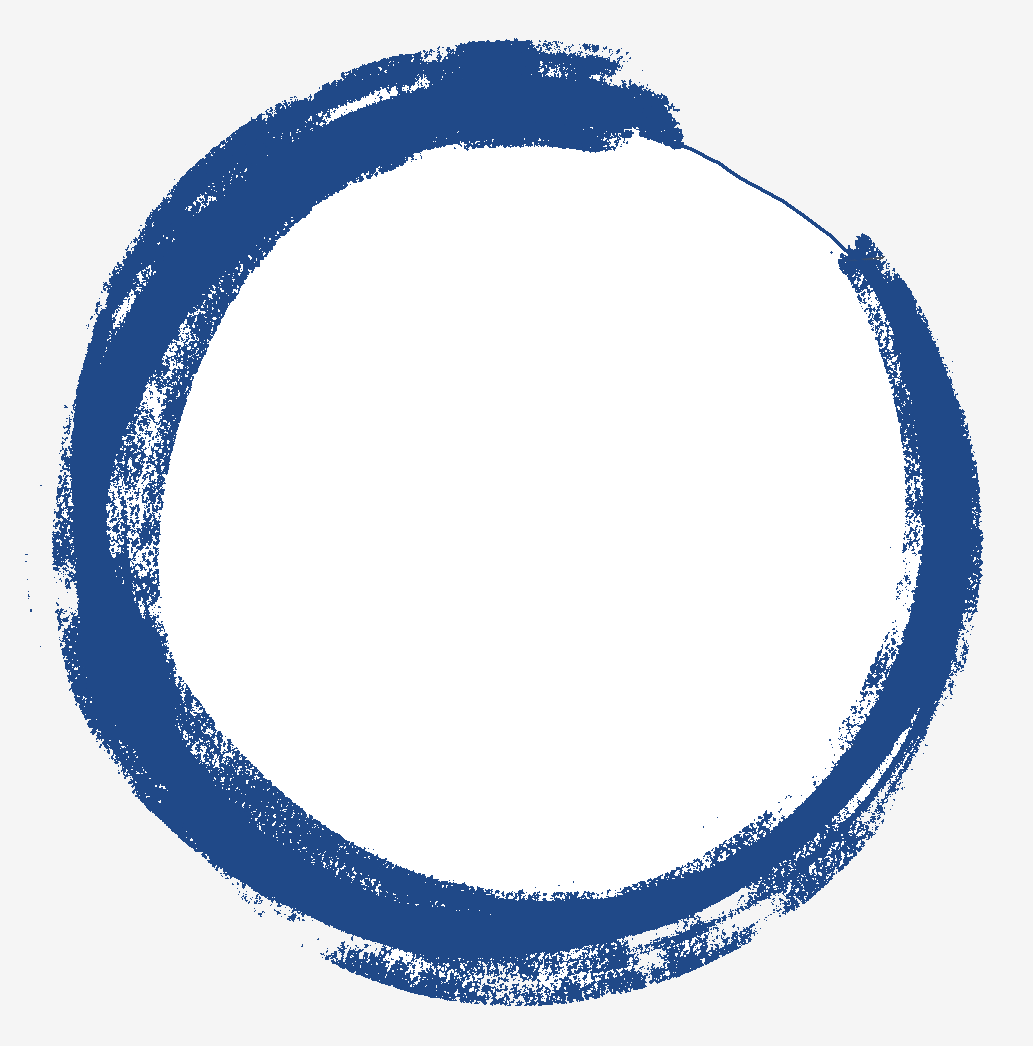
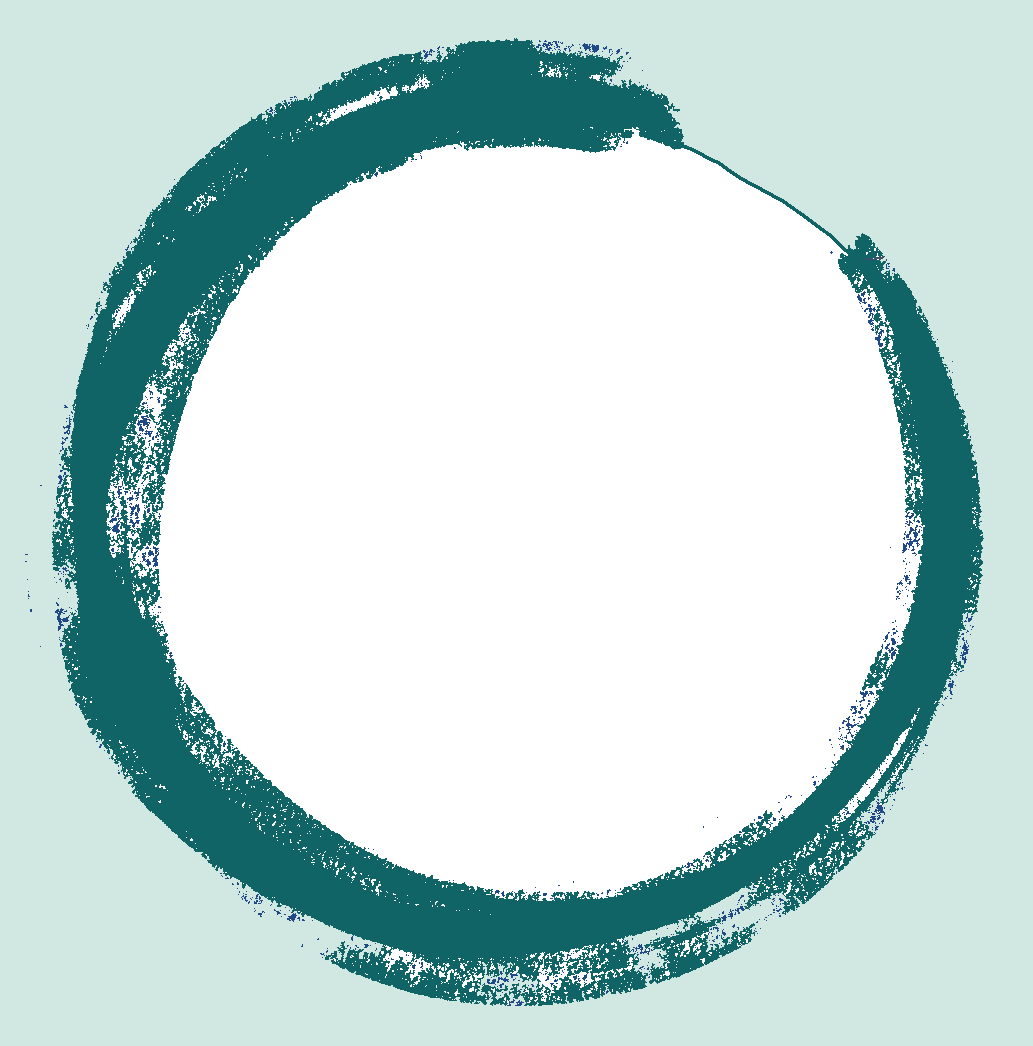
based on feedback

diff --git a/src/components/project-viewer/projects.tsx b/src/components/project-viewer/projects.tsx
@@ -33,7 +33,7 @@ const projects: Array<Project> = [
         id: 1,
         githubPath: 'https://github.com/kainan54/Mod3-VideoGame-Project',
         descrip:
-            'Flappy Demon is a loot-based web game where players are able to collect items/power-ups by defeating enemies or by purchasing them from the item shop. Users are ranked based on the amount of currency gained from selling items.',
+            'Flappy Demon is a loot-based web game where players collect items/power-ups by defeating enemies or by purchasing them from the item shop. Users are ranked based on the amount of currency gained from selling items.',
         features: [
             'Used Phaser3/Vanilla-JS for frontend and Rails API/Ruby for backend',
             'Meshed dom elements to respond to Phaser3 game logic',
@@ -53,7 +53,7 @@ const projects: Array<Project> = [
         id: 2,
         githubPath: 'https://github.com/kainan54/Mod4-project-geoTunes',
         descrip:
-            'Geotunes is a web application designed to allow users to create and share custom Google Maps routes that are linked to Spotify playlists.',
+            'Geotunes is a web application designed to allow users to create and share custom Google Maps routes that are linked to Spotify playlists',
         features: [
             'Integrated Google Maps to enable users to make custom routes on a shared map',
             'Applied Spotify React Components to enable users to attach public playlists to custom routes',
@@ -78,7 +78,7 @@ const projects: Array<Project> = [
         features: [
             'Utilized JSON Web Tokens and Bcrypt Gem for user authorization from frontend to backend',
             'Enabled users to interact through, photo uploads, likes, and following each other using rails models',
-            'Leveraged Three.js library to make a 3D viewer that users could apply to uploaded images',
+            'Applied Three.js Library to make a 3D viewer that users could apply to uploaded images',
             'Incorporated AR.js to make a view layer where users can view their images with a hiro marker and webcam',
         ],
         icons: [

diff --git a/src/components/navbar/NavBar.scss b/src/components/navbar/NavBar.scss
@@ -1,19 +1,20 @@
 .nav-bar {
     height: 4.4rem;
     width: 20rem;
-    background-image: linear-gradient(to right bottom, rgb(22, 20, 20), rgb(19, 17, 53));
+    background-color: #181818;
+    // background-image: linear-gradient(to right, #116466, rgba(4, 89, 110, 0.363));
     position: absolute;
     z-index: 6;
-    top: 0rem;
-    border-radius: 0.5rem;
+    top: 1rem;
+    left: 1rem;
     display: flex;
     justify-content: space-between;
     align-items: center;
     animation-name: moveInLeft;
     animation-duration: 2s;
+    border-radius: 0.7rem;
 
     .nav-icon {
-        background-color: rgb(8, 8, 105);
         height: 100%;
         width: 25%;
         display: flex;
@@ -26,7 +27,7 @@
         }
 
         .nav-line {
-            background-color: white;
+            background-color: #d1e8e2;
             height: 0.15rem;
             width: 1.8rem;
             transition-duration: 1s;
@@ -44,18 +45,18 @@
         height: fit-content;
         display: flex;
         flex-direction: column;
-        background-color: rgba(12, 29, 53, 0.664);
+        background-color: #2c3531ab;
         .nav-menu-item {
             display: flex;
             justify-content: center;
             align-items: center;
             padding: 1.2rem;
             font-size: 1.9rem;
-            border: 0.7px white solid;
+            border: 0.7px #d1e8e2 solid;
             border-radius: 0.8rem;
             a {
                 text-decoration: none;
-                color: white;
+                color: #d1e8e2;
             }
 
             &:hover {
@@ -102,5 +103,16 @@
     100% {
         opacity: 1;
         transform: rotate(180deg);
+    }
+}
+
+@media screen and (max-width: 920px) {
+    #root {
+        .nav-bar {
+            top: 0;
+            left: 0;
+            width: 100%;
+            border-radius: 0;
+        }
     }
 }

diff --git a/src/pages/profile-page/ProfilePage.scss b/src/pages/profile-page/ProfilePage.scss
@@ -9,13 +9,13 @@
     .profile-bg-top {
         height: 50%;
         width: 100%;
-        background-image: linear-gradient(to right, rgba(4, 89, 110, 0.8), rgba(39, 93, 194, 0.76));
+        background-image: linear-gradient(to right, #116466, rgba(4, 89, 110, 0.363));
     }
 
     .profile-bg-bottom {
         height: 50%;
         width: 100%;
-        background-color: white;
+        background-color: #d1e8e2;
     }
 
     .profile-resume-container {
@@ -36,7 +36,9 @@
 
             padding: 3rem;
             box-shadow: rgba(0, 0, 0, 0.1) 0px 0px 5px 0px, rgba(0, 0, 0, 0.1) 0px 0px 1px 0px;
-
+            background-color: #d1e8e2;
+            border-top-left-radius: 1rem;
+            border-top-right-radius: 1rem;
             .enso-container {
                 width: 18rem;
                 height: 18rem;
@@ -51,7 +53,7 @@
                 border-radius: 1%;
 
                 h4 {
-                    color: rgb(39, 93, 194);
+                    color: #116466;
                     font-size: 3rem;
                     margin-bottom: 2.5rem;
                 }
@@ -71,13 +73,14 @@
         }
 
         .profile-res-section-2 {
+            color: #d1e8e2;
             @include nicerOverFlow();
             display: flex;
             flex-wrap: wrap;
             padding: 1rem;
             justify-content: space-evenly;
             height: 50%;
-            background-image: linear-gradient(to left, rgba(4, 89, 110, 0.8), rgba(39, 93, 194, 0.76));
+            background-color: #116466;
             border-bottom-left-radius: 1rem;
             border-bottom-right-radius: 1rem;
             h2 {
@@ -98,7 +101,6 @@
 
         @mixin section2-inners {
             font-family: 'Exo', sans-serif;
-            color: white;
             font-size: 1.8rem;
             width: 40%;
             height: fit-content;

diff --git a/src/components/project-card/ProjectCard.scss b/src/components/project-card/ProjectCard.scss
@@ -22,13 +22,14 @@
 
         .arrow-btn-bg {
             border-radius: 0.8rem;
-            background-color: whitesmoke;
-            opacity: 0.2;
-            border: #800000 2px solid;
+
+            border: #d1e8e2 2px solid;
             font-weight: 900;
+            z-index: 2;
         }
         .arrow-text {
-            color: #ff7518;
+            color: #d1e8e2;
+            font-size: 3rem;
             z-index: 1;
             font-weight: 700;
         }
@@ -36,7 +37,7 @@
 }
 
 .zoomTransformPlus {
-    opacity: 0.8;
+    opacity: 0.65;
     transform: scale(1.2);
     transition-duration: 5s;
     transition: transform 6s cubic-bezier(0.075, 0.82, 0.165, 1);
@@ -50,16 +51,13 @@
     z-index: 3;
     font-size: 3rem;
     padding-bottom: 0.4rem;
-    color: black;
+    color: #116466;
     font-weight: bolder;
 }
 .pc-container {
     height: 45rem;
     width: 45rem;
-    margin-top: 4rem;
-    margin-bottom: 3rem;
-    margin-left: 2rem;
-    margin-right: 2rem;
+    margin: 2.4rem 10rem;
     .project-card-title {
         top: -4rem;
     }
@@ -69,6 +67,7 @@
     #root {
         .pc-container {
             height: 20rem;
+            margin: 2.4rem 1rem;
         }
         .project-header {
             font-size: 6rem;
@@ -76,6 +75,10 @@
         }
         .project-card-title {
             font-size: 2.1rem;
+        }
+
+        .arrow-text {
+            font-size: 2rem;
         }
     }
 }

diff --git a/src/components/project-popup-card/ProjectPopupCard.scss b/src/components/project-popup-card/ProjectPopupCard.scss
@@ -8,7 +8,6 @@
     position: absolute;
     top: 5%;
     z-index: 3;
-    color: #eee7e7;
     display: flex;
     flex-direction: column;
     align-items: center;
@@ -39,7 +38,7 @@
             height: 30px;
             width: 2.3px;
             margin-left: 12px;
-            background-color: #eee7e7;
+            background-color: #d1e8e2;
             transform: rotate(45deg);
             z-index: 3;
             position: absolute;
@@ -49,7 +48,7 @@
             height: 30px;
             width: 2.3px;
             margin-left: 12px;
-            background-color: #eee7e7;
+            background-color: #d1e8e2;
             transform: rotate(135deg);
             z-index: 3;
             position: absolute;
@@ -121,12 +120,12 @@
             }
 
             video {
-                border: whitesmoke 0.8px solid;
+                border: #d1e8e2 0.8px solid;
                 border-radius: 0.3rem;
                 height: 25%;
             }
             .project-content {
-                border: whitesmoke 0.8px solid;
+                border: #d1e8e2 0.8px solid;
                 border-radius: 0.3rem;
             }
 

diff --git a/src/pages/profile-page/ProfilePage.tsx b/src/pages/profile-page/ProfilePage.tsx
@@ -89,12 +89,12 @@ const ProfilePage: React.FC<RouteComponentProps> = function () {
                                 <li>Maintained bar and storage areas and restocked bar inventory and supplies</li>
                             </ul>
 
-                            <h3>Apple(Word Trade Center)</h3>
+                            <h3>Apple Word Trade Center</h3>
                             <h4>Back of House Specialist (11/2018 - 01/2019)</h4>
                             <ul>
                                 <li>
-                                    Worked alongside team members rotating different back of house tasks to keep
-                                    inventory organized and accessible
+                                    Rotated various back of house tasks with teammates to keep inventory organized and
+                                    accessible
                                 </li>
                                 <li>Received product shipments and cataloged them for easy retrieval</li>
                                 <li>Documented, labeled, and shipped out product returns/repairs to the main depot</li>

diff --git a/src/components/project-viewer/ProjectViewer.scss b/src/components/project-viewer/ProjectViewer.scss
@@ -6,26 +6,24 @@
     width: 100%;
     text-align: center;
     align-items: center;
-    background-color: white;
 
     .project-header {
         font-size: 8rem;
         text-decoration: bolder;
+        color: #d1e8e2;
         display: flex;
         justify-content: center;
         align-items: center;
-        width: 80%;
+        width: 100%;
         height: 25%;
-        background-color: #131135;
-        box-shadow: rgba(0, 0, 0, 0.1) 0px 20px 25px -5px, rgba(0, 0, 0, 0.04) 0px 10px 10px -5px;
-        background-image: linear-gradient(to right, rgba(4, 89, 110, 0.8), rgba(39, 93, 194, 0.76)),
+        background-image: linear-gradient(to right, #116466, rgba(4, 89, 110, 0.363)),
             url('../../assets/project-bg.jpg');
         background-size: contain;
         background-position: center;
     }
     .project-card-zone {
         height: 80%;
-        width: 80%;
+        width: 100%;
         display: flex;
         flex-wrap: wrap;
         flex-direction: row;

diff --git a/src/components/expanding-image/ExpandingImage.tsx b/src/components/expanding-image/ExpandingImage.tsx
@@ -7,12 +7,7 @@ interface Props {
 const ExpandingImage: React.FC<Props> = function ({ imageUrl }: Props) {
     return (
         <div className="expanding-image-container">
-            <div
-                className="expanding-image"
-                style={{
-                    backgroundImage: `linear-gradient(to right, rgba(4, 89, 110, 0.8), rgba(39, 93, 194, 0.76)), url(${imageUrl})`,
-                }}
-            />
+            <div className="expanding-image" />
         </div>
     );
 };

diff --git a/src/components/expanding-image/ExpandingImage.scss b/src/components/expanding-image/ExpandingImage.scss
@@ -13,7 +13,7 @@
         width: 100%;
         background-size: cover;
         background-position: center;
-        background-image: linear-gradient(to right, rgba(4, 89, 110, 0.8), rgba(39, 93, 194, 0.76)),
+        background-image: linear-gradient(to right, #116466, rgba(4, 89, 110, 0.363)),
             url('../../assets/train-back-drop.png');
         animation: expand 5s;
     }

diff --git a/src/App.scss b/src/App.scss
@@ -24,9 +24,9 @@ body {
     height: 100%;
     box-sizing: border-box;
     font-family: 'Noto Sans JP', sans-serif;
-    color: #fff;
-    //background-color: rgba(36, 34, 34, 0.925);
-    background-color: white;
+    color: #d1e8e2;
+    background-color: #d1e8e2;
+    //background-color: white;
     perspective: 1000;
     backface-visibility: hidden;
     overflow: hidden;

diff --git a/src/components/enso-portrait/EnsoPortrait.scss b/src/components/enso-portrait/EnsoPortrait.scss
@@ -22,7 +22,7 @@
 
     .profile-header {
         height: 40px;
-        color: rgb(61, 123, 216);
+        color: #116466;
         z-index: 2;
         position: absolute;
         font-size: 2rem;

diff --git a/src/components/icon-w-header/IconHeader.scss b/src/components/icon-w-header/IconHeader.scss
@@ -8,6 +8,6 @@
 
     h1 {
         font-size: 1.2rem;
-        color: rgb(39, 93, 194);
+        color: #116466;
     }
 }
